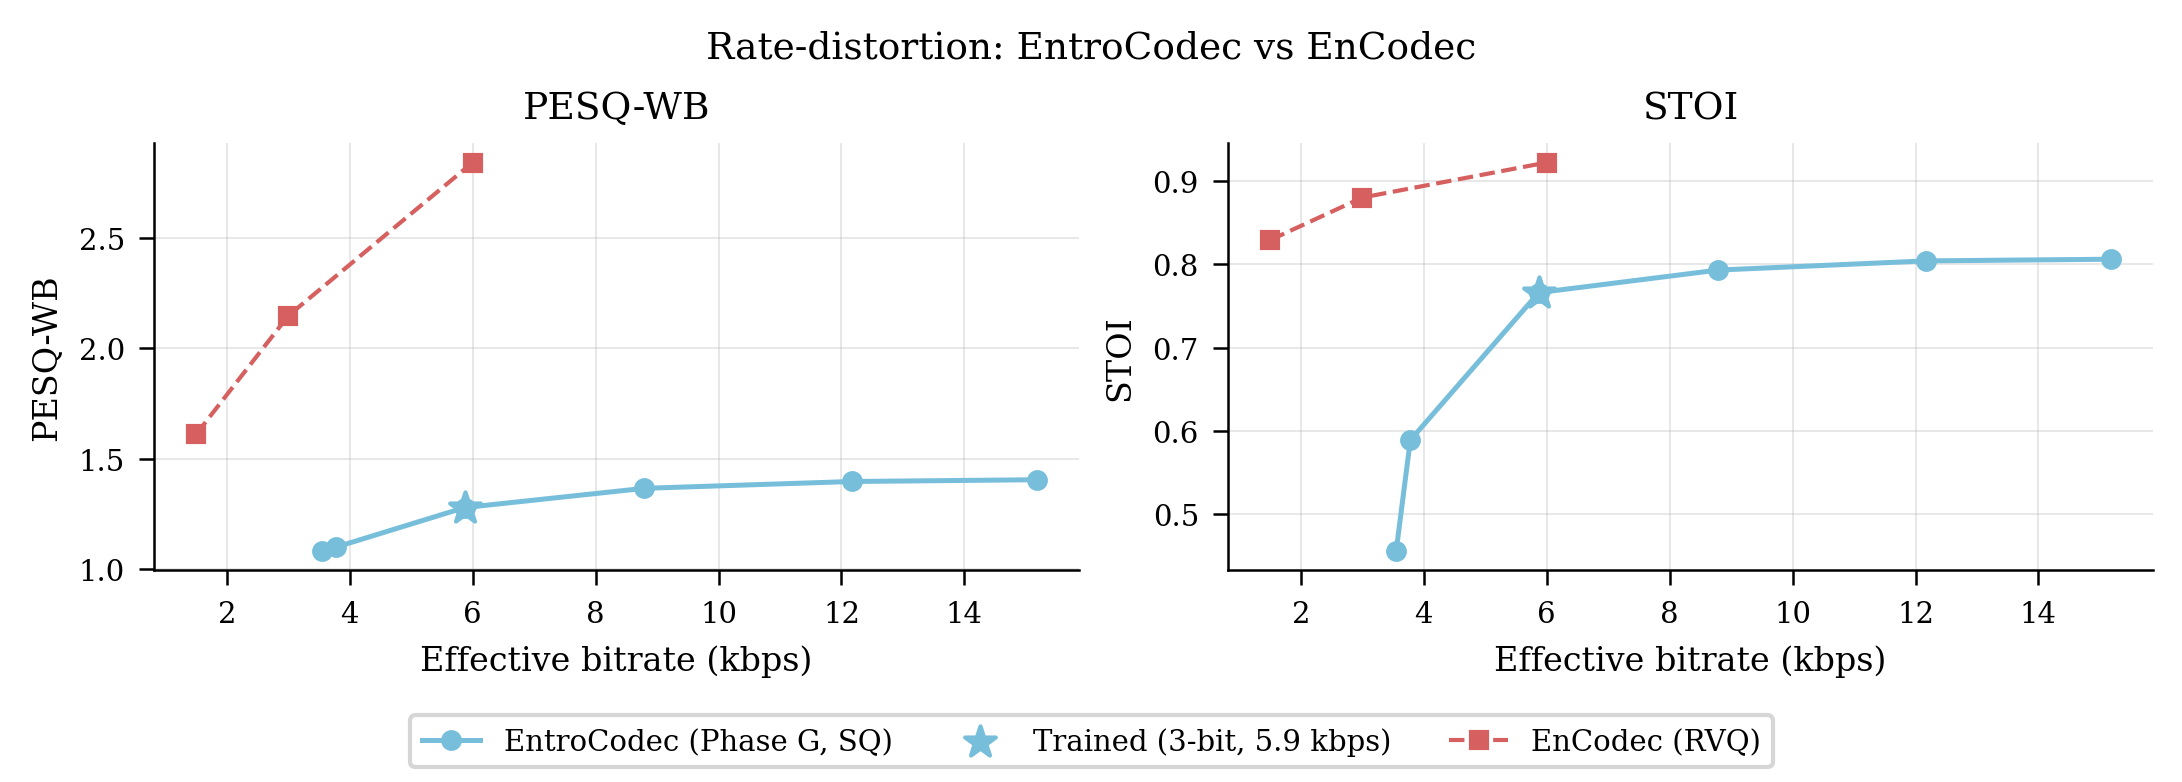
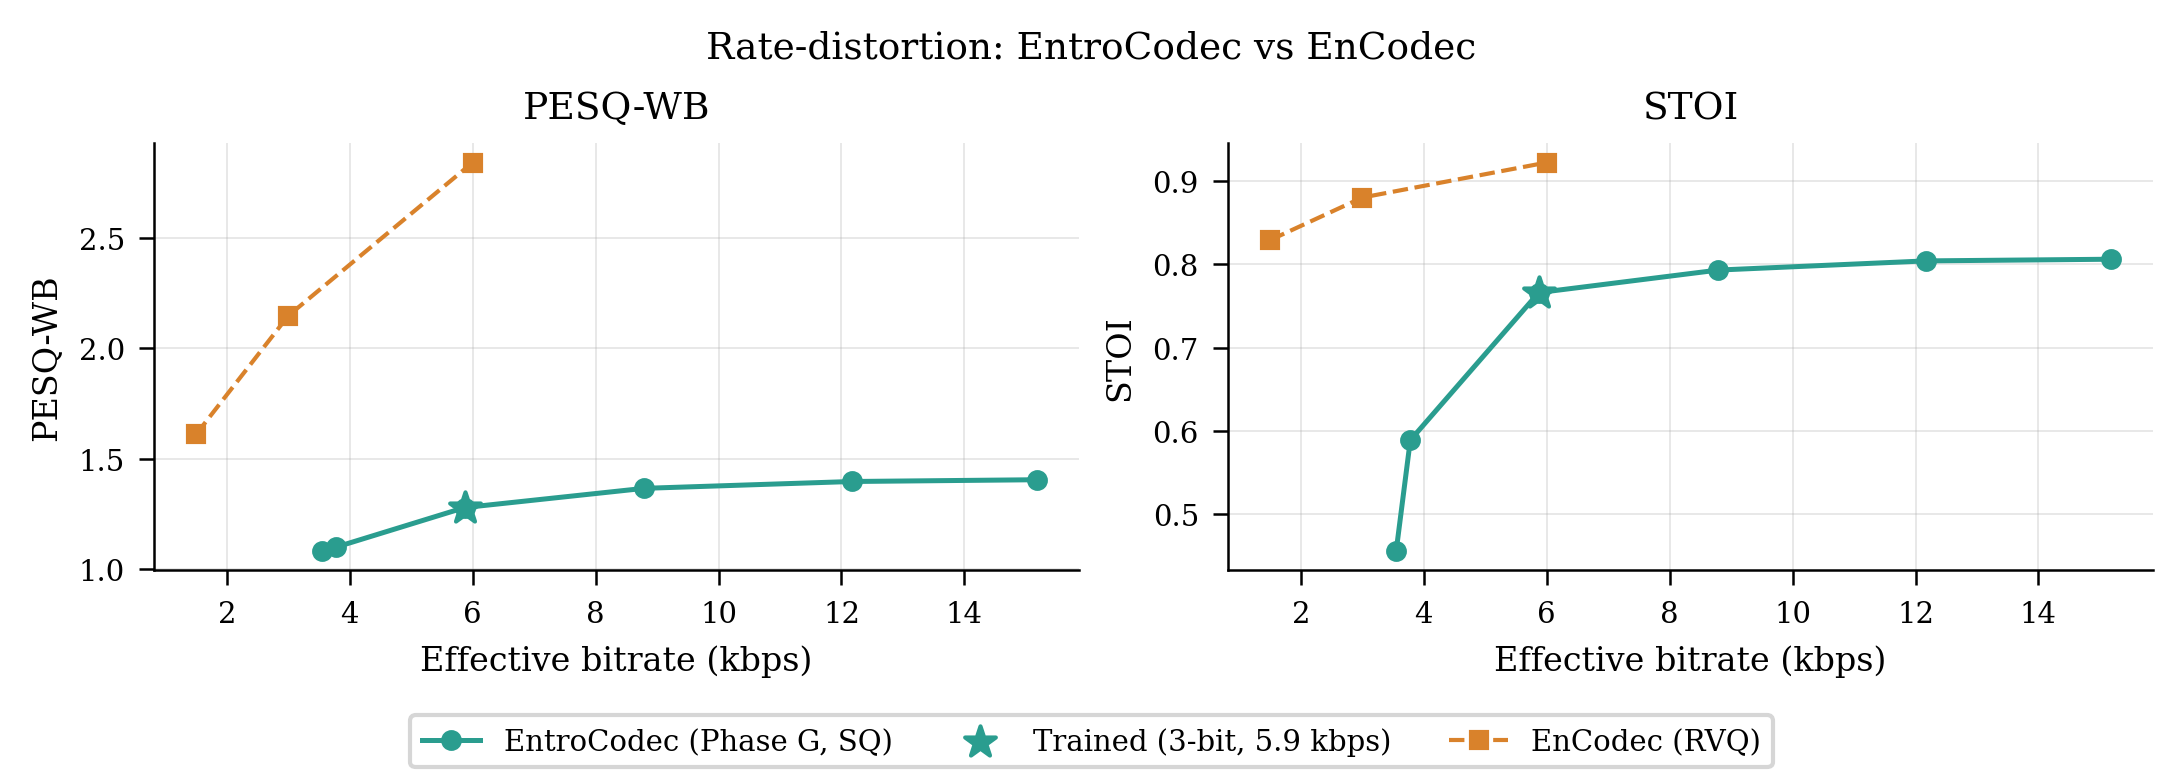
feat: update color scheme for codec comparisons in figures to avoid confusion with phase colors

diff --git a/scripts/figures/plots.py b/scripts/figures/plots.py
@@ -89,12 +89,12 @@ def fig_02_rd_curve(data: dict) -> plt.Figure:
         our_vals = [r[metric] for r in ours]
         enc_vals = [r[metric] for r in encodec]
 
-        ax.plot(our_kbps, our_vals, 'o-', color=style.PHASE_COLORS['G'], linewidth=1.2,
+        ax.plot(our_kbps, our_vals, 'o-', color=style.CODEC_COLORS['EntroCodec'], linewidth=1.2,
                 markersize=4, label='EntroCodec (Phase G, SQ)')
         ax.scatter([our_kbps[trained_idx]], [our_vals[trained_idx]],
-                   color=style.PHASE_COLORS['G'], s=60, zorder=6, marker='*',
+                   color=style.CODEC_COLORS['EntroCodec'], s=60, zorder=6, marker='*',
                    label=f'Trained (3-bit, {our_kbps[trained_idx]:.1f} kbps)')
-        ax.plot(enc_kbps, enc_vals, 's--', color=style.PHASE_COLORS['D-VAE'], linewidth=1.0,
+        ax.plot(enc_kbps, enc_vals, 's--', color=style.CODEC_COLORS['EnCodec'], linewidth=1.0,
                 markersize=4, label='EnCodec (RVQ)')
         ax.set_xlabel('Effective bitrate (kbps)')
         ax.set_ylabel(ylabel)
@@ -749,7 +749,7 @@ def fig_21_complexity(data: dict) -> plt.Figure:
     ours, enc = c['ours'], c['encodec']
 
     labels = ['EntroCodec', 'EnCodec']
-    colors = [style.PHASE_COLORS['G'], style.PHASE_COLORS['D-VAE']]
+    colors = [style.CODEC_COLORS['EntroCodec'], style.CODEC_COLORS['EnCodec']]
 
     fig, axes = plt.subplots(1, 2, figsize=(style.COL1_W, style.ROW_H))
     for ax, vals, ylabel, fmt in [
@@ -779,7 +779,7 @@ def fig_21_complexity(data: dict) -> plt.Figure:
 def fig_22_latency(data: dict) -> plt.Figure:
     c = data['complexity']
     ours, enc = c['ours'], c['encodec']
-    colors = [style.PHASE_COLORS['G'], style.PHASE_COLORS['D-VAE']]
+    colors = [style.CODEC_COLORS['EntroCodec'], style.CODEC_COLORS['EnCodec']]
 
     fig, (ax1, ax2) = plt.subplots(1, 2, figsize=(style.COL2_W, style.ROW_H))
 
@@ -801,9 +801,9 @@ def fig_22_latency(data: dict) -> plt.Figure:
     enc_vals = [enc['encode_ms'], enc['decode_ms']]
     x = np.arange(2)
     w = 0.35
-    ax2.bar(x - w / 2, ours_vals, w, color=style.PHASE_COLORS['G'],
+    ax2.bar(x - w / 2, ours_vals, w, color=style.CODEC_COLORS['EntroCodec'],
             edgecolor='white', linewidth=0.5, label='EntroCodec')
-    ax2.bar(x + w / 2, enc_vals, w, color=style.PHASE_COLORS['D-VAE'],
+    ax2.bar(x + w / 2, enc_vals, w, color=style.CODEC_COLORS['EnCodec'],
             edgecolor='white', linewidth=0.5, label='EnCodec')
     for xi, (ov, ev) in enumerate(zip(ours_vals, enc_vals)):
         ax2.text(xi - w / 2, ov * 1.15, f'{ov:.0f}', ha='center', va='bottom', fontsize=6.5)

diff --git a/scripts/figures/style.py b/scripts/figures/style.py
@@ -36,6 +36,16 @@ PHASE_COLORS: dict[str, str] = {
     'G-64':      '#003c5a',
 }
 
+# EntroCodec vs EnCodec comparisons (fig_03, fig_04, fig_05) used to borrow
+# PHASE_COLORS['G']/['D-VAE'] (blue/red) — but those two colors now carry a
+# separate meaning elsewhere (blue = normal curriculum phase, red = the
+# D-VAE anomaly), so reusing them here reads as a phase callout by mistake.
+# Dedicated, unrelated hues instead.
+CODEC_COLORS: dict[str, str] = {
+    'EntroCodec': '#2a9d8f',  # teal
+    'EnCodec':    '#d9822b',  # orange
+}
+
 # Curriculum phases in canonical display order
 CORE_PHASES    = ['C', 'D', 'D-VAE', 'E', 'F', 'G']
 THESIS_PHASES  = ['C', 'D', 'D-VAE', 'D-Entropy', 'E', 'F', 'G']
